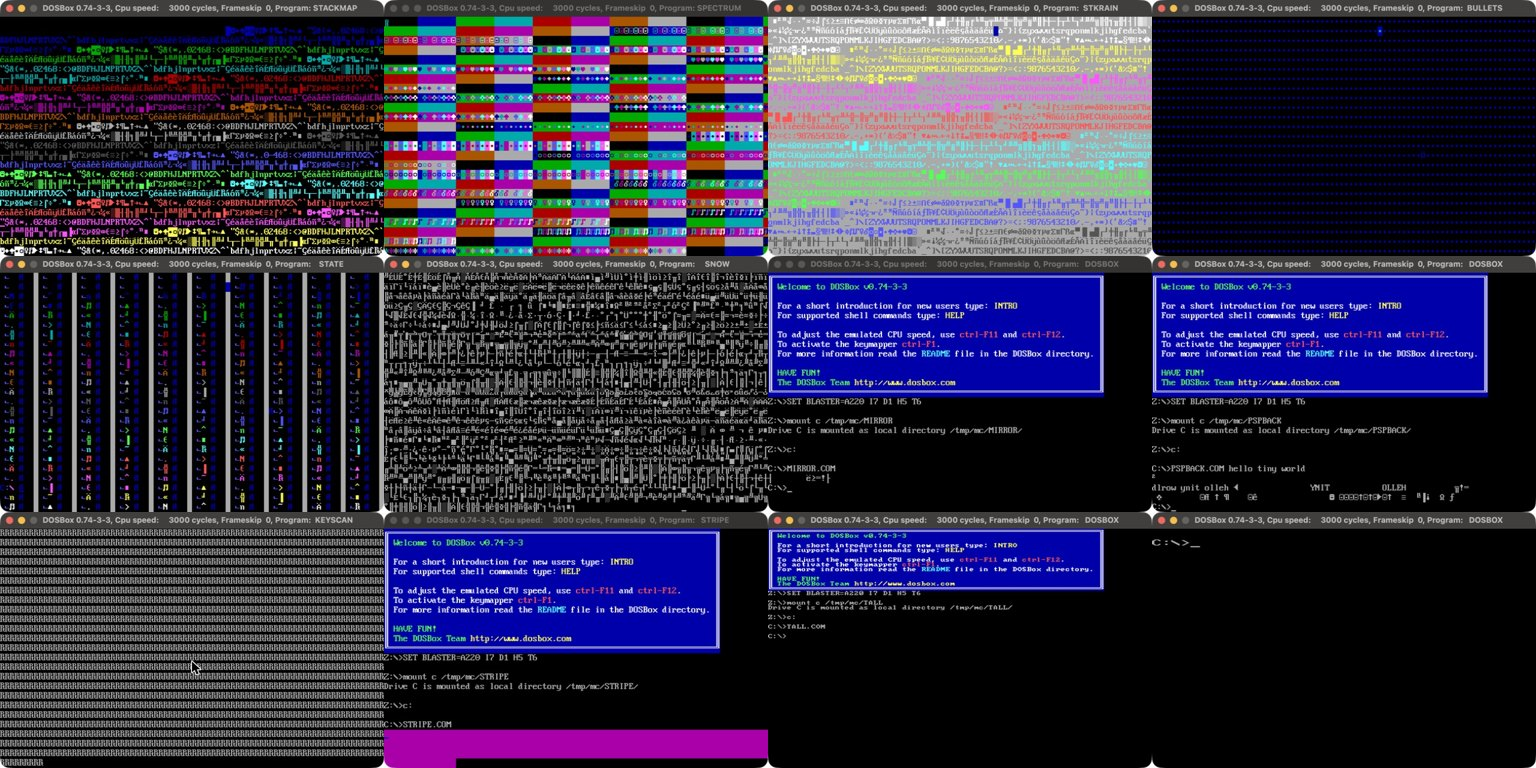
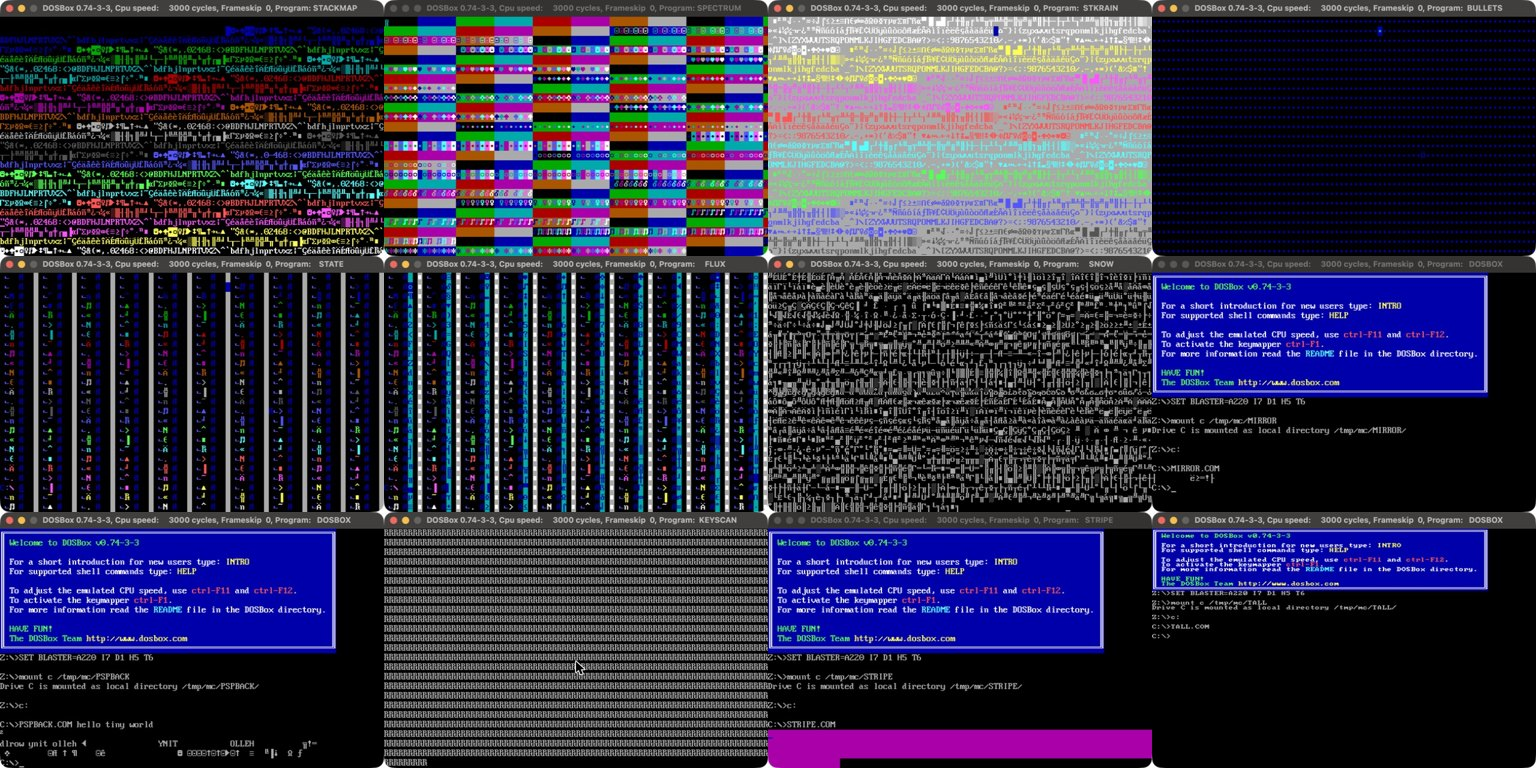
Add FLUX and WEAVE (found by random-program search); 20 demos

diff --git a/tests/test_micro.py b/tests/test_micro.py
@@ -240,5 +240,25 @@ ok = all(w[c] == want[c % 8] for c in range(2000) if c % 8 in want)
 check(r.uc.reg_read(UC_X86_REG_SS) == 0xB800 and ok, "the screen is an 8-cell tile repeated: SI, BP, (SP), BX, DX, CX, AX, DI exactly as the machine started the program")
 check(len({w[c] for c in range(2, 2000, 8)}) > 100, "and the SP cell of each tile counts down by 16: a glyph column that drifts")
 
+# ---------------------------------------------------------------- FLUX
+print("\n== FLUX ==")
+r = Run("FLUX.COM").run(500_000)
+size_gate("FLUX", r, 8)
+w = [word(r, 0xB8000 + 2 * c) for c in range(2000)]
+want = {0: 0x0100, 1: 0x091C, 3: 0x0000, 4: SEG, 6: 0x0000, 7: 0xFFFE}
+check(r.uc.reg_read(UC_X86_REG_SS) == 0xB800 and all(w[c] == want[c % 8] for c in range(2000) if c % 8 in want), "an 8-cell register tile as in STATE: SI, BP, BX, DX, AX, DI as DOS left them")
+steps = {(b - a) & 0xFFFF for a, b in zip(w[5::8], w[13::8])}
+check(steps == {1} and len({w[c] for c in range(5, 2000, 8)}) > 100, f"but CX, which is one lower for each tile pushed, makes a second drifting column (tile-to-tile steps {sorted(steps)})")
+
+# ---------------------------------------------------------------- WEAVE
+print("\n== WEAVE ==")
+r = Run("WEAVE.COM").run(500_000)
+size_gate("WEAVE", r, 8)
+w = [word(r, 0xB8000 + 2 * c) for c in range(2000)]
+blue = [c for c in range(2000) if w[c] == 0x0100]
+addr = [c for c in range(2000) if w[c] != 0x0100]
+check(r.uc.reg_read(UC_X86_REG_SS) == 0xB800 and len(blue) == 1000 and all(c % 2 == blue[0] % 2 for c in blue), "every other cell is SI's start-up value 0100h (a blank cell, blue attribute)")
+check(all(w[c] == 2 * c + 2 for c in addr), "and the cells between hold their own address, as in STACKMAP")
+
 print("\nRESULT:", "ALL PASS" if not fails else f"{len(fails)} FAILED:\n  - " + "\n  - ".join(fails))
 sys.exit(1 if fails else 0)

diff --git a/README.md b/README.md
@@ -1,14 +1,14 @@
 # UBER micro demos
 
-**Eighteen DOS demos, each under 9 bytes of x86 assembly: the screen painted by the stack, a program that prints its own machine code, one that reverses your command line, one that shows the state DOS left the CPU in, and four that make noise.**
+**Twenty DOS demos, each under 9 bytes of x86 assembly: the screen painted by the stack, a program that prints its own machine code, one that reverses your command line, one that shows the state DOS left the CPU in, and four that make noise.**
 
 [![CI](https://github.com/djayuffe/uber-micro-demos/actions/workflows/ci.yml/badge.svg)](https://github.com/djayuffe/uber-micro-demos/actions/workflows/ci.yml)
 
 ![Twelve of the demos in DOSBox](docs/gallery.jpg)
 
-*Real DOSBox captures. Row 1: STACKMAP, SPECTRUM, STKRAIN, BULLETS. Row 2: STATE, SNOW, MIRROR (its own machine code under the command),
-PSPBACK (`PSPBACK hello tiny world` prints the command line reversed). Row 3: KEYSCAN (after a key press), STRIPE, TALL (80x50 text) and
-BIG (40x25).*
+*Real DOSBox captures. Row 1: STACKMAP, SPECTRUM, STKRAIN, BULLETS. Row 2: STATE, FLUX, SNOW, MIRROR (its own machine code under the
+command). Row 3: PSPBACK (`PSPBACK hello tiny world` prints the command line reversed), KEYSCAN (after a key press), STRIPE, and TALL
+(80x50 text). BIG (40x25) is not shown.*
 
 None of them sets a video mode, loads a file or allocates memory. They use what DOS hands a `.COM` for
 free (`AX = BX = 0`, `SI = 100h`, text mode 3, the BIOS and the PC's hardware) and bend it:
@@ -19,6 +19,8 @@ free (`AX = BX = 0`, `SI = 100h`, text mode 3, the BIOS and the PC's hardware) a
 | **STKRAIN** | 8 | the stack is the screen again, and a counter pours down it: a rainbow of every character |
 | **BULLETS** | 7 | infinite **recursion** with the stack on the screen: every `CALL` pushes a return address, and the screen fills with blue bullets |
 | **STATE** | 7 | the **machine's start-up state**, painted: `pusha` stacks the eight registers DOS left behind, as a tile that repeats across the screen |
+| **FLUX** | 8 | STATE with a **second moving column**: `dec cx` makes CX one lower for every tile, so two glyph columns drift |
+| **WEAVE** | 8 | the address map **woven** with SI's start-up value: every other cell is a blank blue one |
 | **SPECTRUM** | 8 | STACKMAP with the stack **one byte off**: every word straddles two cells, so the colour changes every cell and the glyph every 128: a test card |
 | **SNOW** | 8 | a **blizzard** of random glyphs: the timer's fast counter, forced into codes 128-255 |
 | **BREATH** | 7 | the text **cursor pulses**: its shape changes every timer tick |
@@ -41,7 +43,7 @@ Download the `.COM` files from the [latest release](../../releases/latest) and r
 
 ```sh
 ./build.sh                  # NASM: assembles all ten and enforces each size budget
-./run-dosbox.sh stkrain   # any of: stackmap spectrum stkrain bullets state snow breath stripe mirror pspback keyscan big tall buzz static ticker geiger typer
+./run-dosbox.sh stkrain   # any of: stackmap spectrum stkrain bullets state flux weave snow breath stripe mirror pspback keyscan big tall buzz static ticker geiger typer
 ```
 
 Needs [NASM](https://www.nasm.us/) (macOS: `brew install nasm`, `brew install --cask dosbox`).
@@ -70,6 +72,12 @@ it, a known set of registers and the BIOS. Several demos here have almost no ren
 **Rules of the game.** *Strict 8*: exactly 8 bytes or fewer in the `.COM`, no payload, no data file, an ordinary launch with no
 arguments. Every demo here is strict except PSPBACK, which is *wild* (it reads your command line). KEYSCAN and TYPER want keys.
 
+**Found by search.** FLUX and WEAVE came from a brute-force run: about 73,000 random 8-byte programs (built from a pool of useful
+instructions, each ending in a short backward jump) run in an emulated 16-bit CPU with DOSBox's start-up registers, scored on how rich
+the text screen or the printed stream became. About 245 scored at all, and nearly all were variants of programs already here (STACKMAP
+with a spare instruction, SNOW and the ASCII table with a different register, STATE with a different counter); the two that
+made a clearly different picture live in DOSBox are FLUX (`dec cx` in the `pusha` loop) and WEAVE (`push si` beside `push sp`).
+
 **What I tried and could not use.**
 - *CRT-controller abuse* (sweeping the start address or horizontal parameters): it needs 11 bytes for the port, the register index and the
   loop, and wild CRTC values can stress a real monitor, so I did not ship it.
@@ -94,6 +102,9 @@ screen, and as `SP` counts down and wraps around the 64 KB segment it walks acro
 - **STKRAIN**: `inc ax` / `push ax` writes a counter; character = low byte, colour = high byte.
 - **BULLETS**: `call` to itself. The return address `0107h` is pushed over and over: character `07h` (a bullet),
   colour `01h` (blue).
+
+**FLUX** is STATE with `dec cx` in the loop: CX is one lower for each tile pushed, so its column drifts as well as the SP column. **WEAVE**
+is `push sp` / `push si`: DOS gives `SI = 0100h`, a blank cell with a blue attribute, so it alternates with the address map.
 
 **STATE**: `pusha` is one byte that pushes AX, CX, DX, BX, SP, BP, SI, DI. With the stack on the screen, those eight words become an
 8-cell tile, repeated down the whole page; the SP cell is the only one that changes (it counts down by 16 each time), so it reads as

diff --git a/CHANGELOG.md b/CHANGELOG.md
@@ -3,6 +3,12 @@
 Pushing a `vX.Y.Z` tag runs `.github/workflows/release.yml`, which builds, tests and attaches the ten
 `.COM` files to a GitHub release using that version's section below.
 
+## [1.4.0] - 2026-10-10
+
+### Added
+- **FLUX** (8 bytes: STATE plus `dec cx`, a second drifting column) and **WEAVE** (8: `push sp` / `push si`), both found by a brute-force
+  search of ~73,000 random 8-byte programs in an emulated CPU, then verified live in DOSBox. 20 demos.
+
 ## [1.3.0] - 2026-10-10
 
 ### Added
